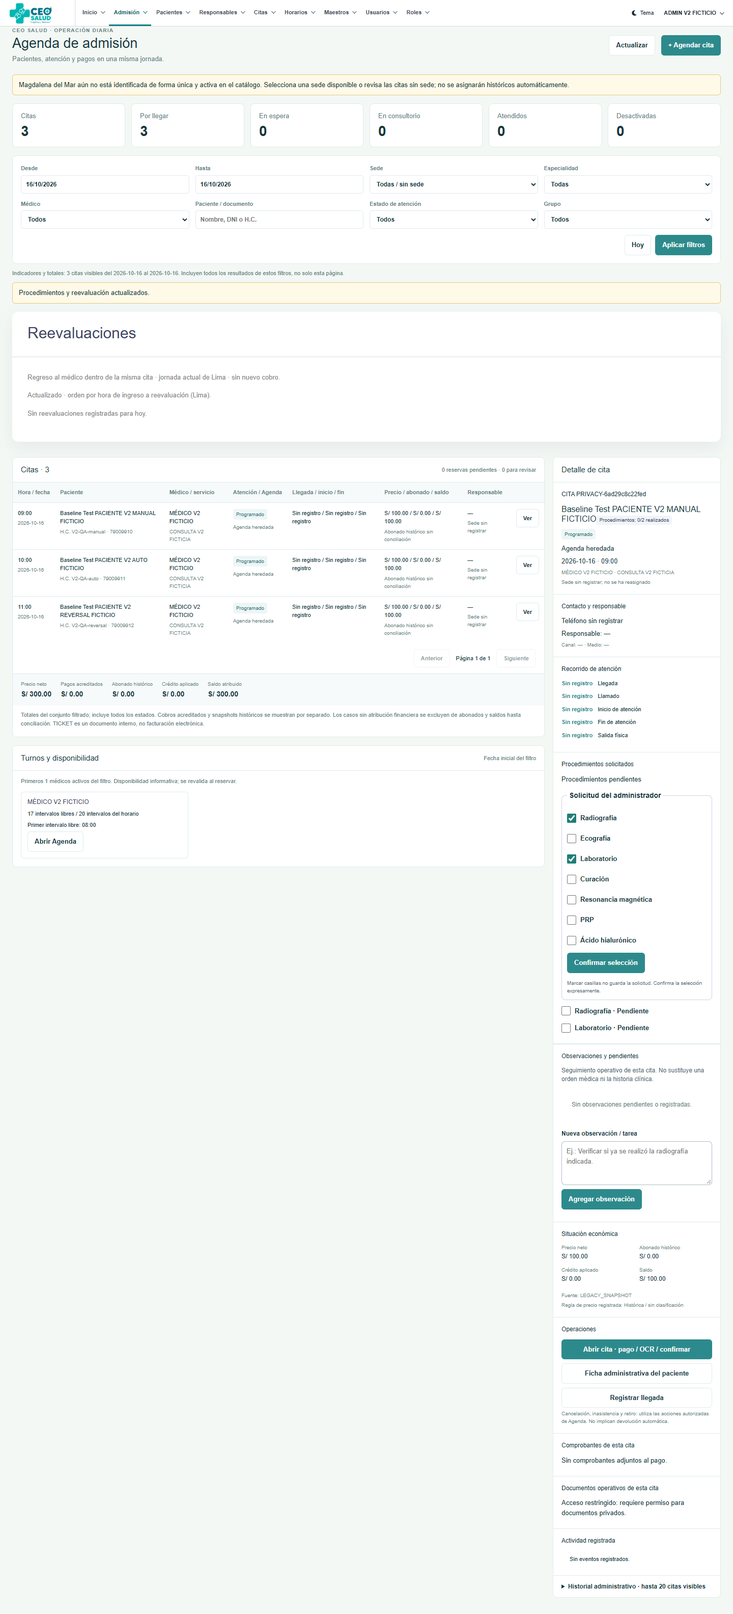
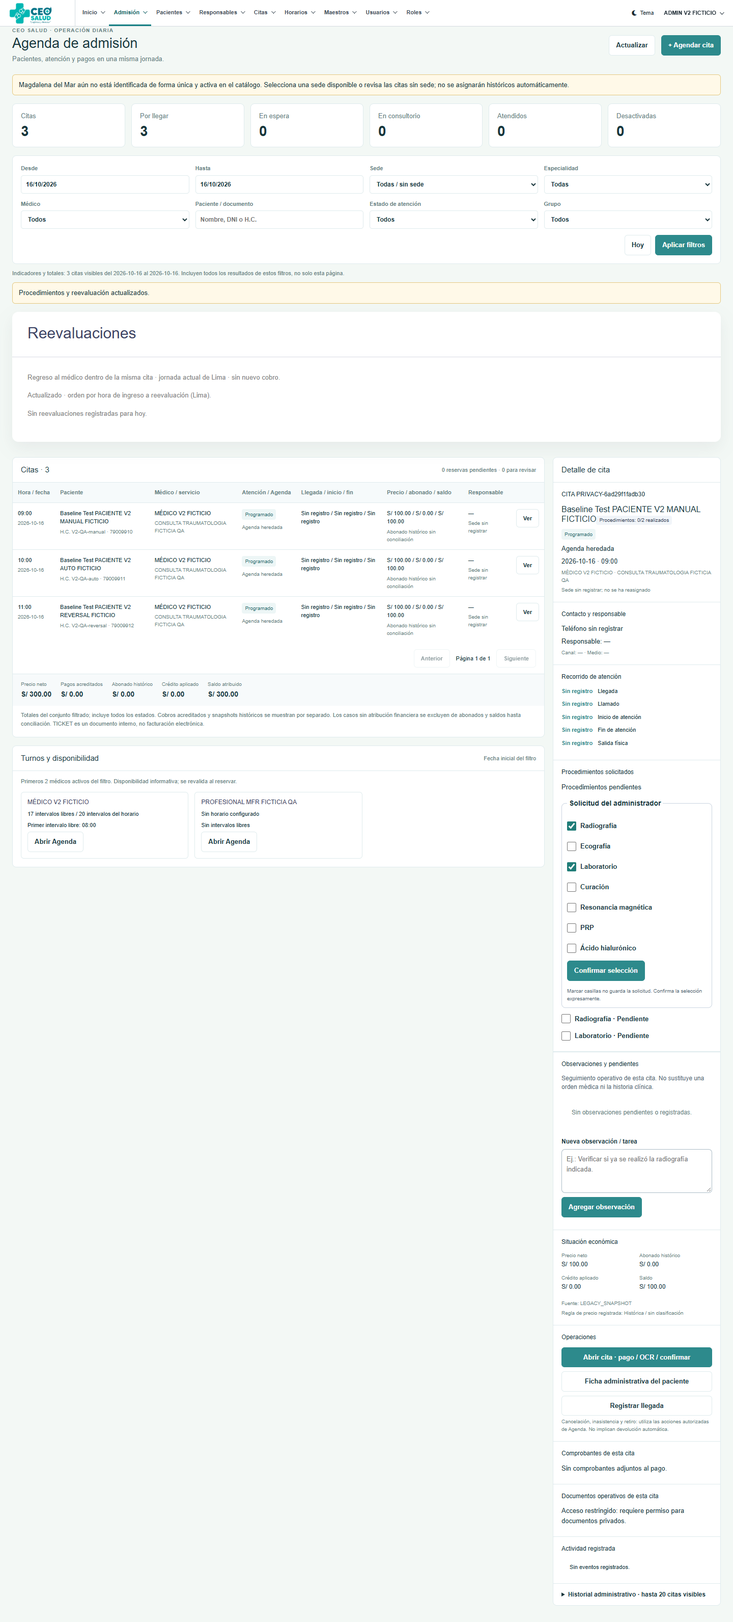
fix: refresh professional service picker after specialty compatibility changes

diff --git a/tests/JavaScript/doctor-service-compatibility.test.js b/tests/JavaScript/doctor-service-compatibility.test.js
@@ -1,0 +1,37 @@
+const test=require('node:test'),assert=require('node:assert/strict'),fs=require('node:fs'),vm=require('node:vm');
+const source=fs.readFileSync(require.resolve('../../public/js/admin/master/doctor-service/doctor-service.js'),'utf8');
+function fixture(plugin=true){
+ const target=props=>Object.assign({listeners:{},addEventListener(type,fn){this.listeners[type]=fn;},dispatchEvent(event){this.listeners[event.type]?.({target:this});}},props);
+ const select=options=>Object.defineProperty(target({options,value:options[0].value}),'selectedOptions',{get(){return this.options.filter(o=>o.value===this.value);}});
+ const option=(value,dataset={})=>({value,dataset,disabled:false});
+ const doctor=select([option('trauma',{specialty:'1'}),option('mfr',{specialty:'5'})]);
+ const service=select([option(''),option('consulta-trauma',{specialties:'[1]',policy:'PROFESSIONAL'}),option('consulta-mfr',{specialties:'[5]',policy:'PROFESSIONAL'}),option('compartido',{specialties:'[1,5]'})]);
+ const approved=target({checked:false}),reason={required:false};
+ const fields={doctor_id:doctor,service_id:service,specialty_exception_authorized:approved,specialty_exception_reason:reason};
+ const form={elements:{namedItem:name=>fields[name]},querySelector:()=>null};
+ const modal=target({}),snapshots=[];
+ const document={getElementById:id=>({formCreateDoctorService:form,doctorServiceModalCreate:modal})[id],addEventListener(){}};
+ const window={CatalogEditor:{bind(){}},addEventListener(type,fn){if(type==='DOMContentLoaded')this.ready=fn;}};
+ if(plugin){window.jQuery=element=>({selectpicker(action){assert.equal(action,'refresh');snapshots.push({selected:element.value,disabled:Object.fromEntries(element.options.map(o=>[o.value,o.disabled]))});}});window.jQuery.fn={selectpicker(){}};}
+ vm.runInNewContext(source,{window,document,Event:class{constructor(type){this.type=type;}}});window.ready();
+ const change=element=>element.dispatchEvent({type:'change'});
+ return {doctor,service,approved,reason,modal,snapshots,change};
+}
+test('Keylinn/MFR regression: initial load and professional changes refresh cached disabled options after recalculation',()=>{
+ const f=fixture();assert.equal(f.snapshots.length,1);assert.equal(f.snapshots.at(-1).disabled['consulta-mfr'],true);
+ f.doctor.value='mfr';f.change(f.doctor);
+ assert.equal(f.snapshots.at(-1).disabled['consulta-mfr'],false);assert.equal(f.snapshots.at(-1).disabled['consulta-trauma'],true);
+ f.service.value='consulta-mfr';f.change(f.service);assert.equal(f.snapshots.at(-1).selected,'consulta-mfr');
+ f.modal.dispatchEvent({type:'shown.bs.modal'});assert.equal(f.snapshots.at(-1).selected,'consulta-mfr');
+ assert.equal(f.snapshots.at(-1).disabled['consulta-trauma'],true);
+});
+test('exception changes refresh the picker, require a reason and clear only newly incompatible selections',()=>{
+ const f=fixture();f.doctor.value='mfr';f.change(f.doctor);f.approved.checked=true;f.change(f.approved);
+ assert.equal(f.reason.required,true);assert.equal(f.snapshots.at(-1).disabled['consulta-trauma'],false);
+ f.service.value='consulta-trauma';f.approved.checked=false;f.change(f.approved);
+ assert.equal(f.reason.required,false);assert.equal(f.snapshots.at(-1).disabled['consulta-trauma'],true);assert.equal(f.snapshots.at(-1).selected,'');
+ f.service.value='compartido';f.doctor.value='trauma';f.change(f.doctor);assert.equal(f.snapshots.at(-1).selected,'compartido');
+});
+test('native selects keep compatibility validation when Bootstrap Select is absent',()=>{
+ const f=fixture(false);f.doctor.value='mfr';f.change(f.doctor);assert.equal(f.service.options[2].disabled,false);assert.equal(f.service.options[1].disabled,true);
+});

diff --git a/public/js/admin/master/doctor-service/doctor-service.js b/public/js/admin/master/doctor-service/doctor-service.js
@@ -5,12 +5,18 @@ window.addEventListener('DOMContentLoaded',()=>{
   const note=form.querySelector('[data-price-source]');if(note)note.textContent=institutional?'Precio institucional: S/ '+(service.institutional_price??'sin configurar')+'. La asignación autoriza a este profesional.':'Primera consulta y reevaluación del profesional. La reevaluación exige indicación y respeta los límites clínicos.';}
  function compatibility(form){
   const approved=form.elements.namedItem('specialty_exception_authorized'),reason=form.elements.namedItem('specialty_exception_reason');if(reason)reason.required=Boolean(approved?.checked);
-  if(form===create){const doctor=form.elements.namedItem('doctor_id')?.selectedOptions[0],select=form.elements.namedItem('service_id');if(select){for(const option of select.options){if(!option.value)continue;const allowed=JSON.parse(option.dataset.specialties||'[]').map(String).includes(String(doctor?.dataset.specialty));option.disabled=!allowed&&!approved?.checked;}if(select.selectedOptions[0]?.disabled)select.value='';}}
+  if(form===create){const doctor=form.elements.namedItem('doctor_id')?.selectedOptions[0],select=form.elements.namedItem('service_id');if(select){for(const option of select.options){if(!option.value)continue;const allowed=JSON.parse(option.dataset.specialties||'[]').map(String).includes(String(doctor?.dataset.specialty));option.disabled=!allowed&&!approved?.checked;}if(select.selectedOptions[0]?.disabled)select.value='';
+   // Bootstrap Select caches disabled options; synchronize only after compatibility and selection are final.
+   if(window.jQuery?.fn?.selectpicker)window.jQuery(select).selectpicker('refresh');}}
   const note=form.querySelector('[data-specialty-message]');if(note){const allowed=form===create?Boolean(form.elements.namedItem('service_id')?.value):form.dataset.specialtyCompatible==='1';note.hidden=allowed;if(!allowed&&form===update)form.querySelector('[data-specialty-authorization]').open=true;note.textContent='Revisa la compatibilidad de especialidad. Un servicio incompatible requiere autorización explícita y motivo; se valida también en servidor.';}
  }
  [create,update].filter(Boolean).forEach(form=>form.elements.namedItem('specialty_exception_authorized')?.addEventListener('change',()=>compatibility(form)));create?.elements.namedItem('doctor_id')?.addEventListener('change',()=>compatibility(create));
  create?.elements.namedItem('service_id')?.addEventListener('change',e=>{compatibility(create);const option=e.target.selectedOptions[0];policy(create,{pricing_policy:option.dataset.policy,institutional_price:option.dataset.price});});
+ for(const [modalId,form] of [['doctorServiceModalCreate',create],['doctorServiceModalEdit',update]]){
+  if(form)document.getElementById(modalId)?.addEventListener('shown.bs.modal',()=>compatibility(form));
+ }
  if(create)create.elements.namedItem('service_id')?.dispatchEvent(new Event('change'));
+ if(update)compatibility(update);
  document.addEventListener('click',async e=>{const edit=e.target.closest('.edit-doctor-service'),remove=e.target.closest('.delete-doctor-service');
   if(edit){e.preventDefault();try{const data=await editor.request('/master/admin/doctor/services/'+encodeURIComponent(edit.dataset.id));const p=data.assignment;
    editor.fill(update,{doctor_service_id:p.id,doctor_id:p.doctor_id,service_id:p.service_id,precio_estandar:p.precio_primera_consulta,reconsulta:p.precio_reconsulta,dias:p.dias_reconsulta,catalog_version:p.catalog_version,estado:p.estado,specialty_exception_authorized:Boolean(p.specialty_exception_approved_by_user_id),specialty_exception_reason:p.specialty_exception_reason});

diff --git a/tests/JavaScript/agenda-guidance.test.js b/tests/JavaScript/agenda-guidance.test.js
@@ -20,8 +20,8 @@ test('comprobante permanece dentro de Registrar adelanto según PR24 y no se dup
 test('el par reserva/agendar explica el siguiente paso sin decir que la reserva ocupa el horario', () => {
     const help = guidance.copy.reserveVsSchedule;
     assert.match(help, /Guardar reserva: guarda el seguimiento sin confirmar el horario/);
-    assert.match(help, /Confirmar cita: confirma el horario con cualquier pago real positivo o exoneración autorizada/);
-    assert.match(help, /Con adelanto o crédito, la reserva protege el horario sin confirmarlo/);
+    assert.match(help, /Registrar pago y cita: registra cualquier pago real positivo y confirma automáticamente el horario/);
+    assert.match(help, /La exoneración requiere autorización expresa/);
     assert.match(guidance.copy.legendPrivate,/Pendiente de confirmación.*protege el horario/);
     for (const file of [
         'resources/views/scheduling/agenda/partials/quick-registration.blade.php',

diff --git a/public/js/scheduling/agenda-guidance.js b/public/js/scheduling/agenda-guidance.js
@@ -6,7 +6,7 @@
     'use strict';
 
     const copy = {
-        reserveVsSchedule: 'Guardar reserva: guarda el seguimiento sin confirmar el horario. Confirmar cita: confirma el horario con cualquier pago real positivo o exoneración autorizada. Con adelanto o crédito, la reserva protege el horario sin confirmarlo.',
+        reserveVsSchedule: 'Guardar reserva: guarda el seguimiento sin confirmar el horario y sin registrar dinero. Registrar pago y cita: registra cualquier pago real positivo y confirma automáticamente el horario. La exoneración requiere autorización expresa.',
         insufficientAdvance: 'Para confirmar registra un pago real mayor a S/0. Si aún no pagó, usa Guardar reserva.',
         reserveSaved: 'Reserva guardada. Pendiente de confirmación.',
         reserveSavedHere: 'Reserva guardada para esta hora.',

diff --git a/tests/Support/agenda-v2-browser-seed.php b/tests/Support/agenda-v2-browser-seed.php
@@ -33,8 +33,14 @@ $fixture=new class {
         $p=$this->createPatient($admin,['nombre'=>'PACIENTE V2 PAGO FICTICIO','numero_identidad'=>'79009920','historia_clinica'=>'V2-QA-PAGO','telefono'=>'+51999000001']);
         $pending=$this->lifecycleAppointment(\App\Models\User::findOrFail($users['admission']['id']),$catalog,[
             'fecha_cita'=>$today,'hora_cita'=>'12:00','estado_agenda'=>'PENDIENTE_CONFIRMACION','tipo_agendamiento'=>'REGULAR','economic_source'=>'VOUCHER'], $p);
+        $catalog['specialty']->update(['nombre'=>'TRAUMATOLOGIA FICTICIA QA']);
+        $catalog['service']->update(['nombre'=>'CONSULTA TRAUMATOLOGIA FICTICIA QA']);
+        $mfrSpecialty=\App\Models\Specialty::create(['nombre'=>'MEDICINA FISICA Y REHABILITACION FICTICIA QA','estado'=>'ACTIVO']);
+        $mfrDoctor=\App\Models\Doctor::create(['nombre'=>'PROFESIONAL MFR FICTICIA QA','specialty_id'=>$mfrSpecialty->id,'estado'=>'ACTIVO']);
+        $mfrService=\App\Models\Service::create(['nombre'=>'CONSULTA MEDICA MFR FICTICIA QA','specialty_id'=>$mfrSpecialty->id,
+            'service_type'=>'CONSULTATION','pricing_policy'=>'PROFESSIONAL','estado'=>'ACTIVO']);
         return ['users'=>$users,'date'=>$today,'appointments'=>$appointments,'pending_id'=>$pending->id,
-            'doctor_id'=>$catalog['doctor']->id,'service_id'=>$catalog['service']->id,'patient_id'=>$p->id,'document'=>'79009920'];
+            'mfr_doctor_id'=>$mfrDoctor->id,'mfr_service_id'=>$mfrService->id,'doctor_id'=>$catalog['doctor']->id,'service_id'=>$catalog['service']->id,'patient_id'=>$p->id,'document'=>'79009920'];
     }
 };
 $data=$fixture->seed($password);

diff --git a/resources/views/admissionist/appointment/crud/create.blade.php b/resources/views/admissionist/appointment/crud/create.blade.php
@@ -16,8 +16,8 @@
 
                 @csrf
                 <input type="hidden" name="request_key" value="{{ (string) \Illuminate\Support\Str::uuid() }}">
-                <label class="form-label">Acción <select name="mode" class="form-control"><option value="RESERVE">Guardar reserva (con dinero protege horario)</option><option value="CONFIRM">Confirmar cita (requiere 50% real o exoneración autorizada)</option></select></label>
-                <p>El precio se calcula en el servidor. Registrar adelanto no confirma automáticamente.</p>
+                <label class="form-label">Acción <select name="mode" class="form-control"><option value="RESERVE">Guardar reserva sin pago</option><option value="CONFIRM">Registrar pago y cita / exoneración autorizada</option></select></label>
+                <p>El precio se calcula en el servidor. Cualquier pago real positivo confirma automáticamente la cita. La exoneración requiere autorización expresa.</p>
 
                 <div class="modal-body">
 

diff --git a/app/Http/Controllers/admissionist/appointment/AppointmentController.php b/app/Http/Controllers/admissionist/appointment/AppointmentController.php
@@ -67,7 +67,7 @@ class AppointmentController extends Controller
         try {
             $a = $registrations->register($request);
             return response()->json(['code' => 1, 'msg' => $a->estado_agenda === 'PENDIENTE_CONFIRMACION'
-                ? 'Reserva guardada. Pendiente de confirmación; registrar adelanto no confirma la cita.' : 'Cita confirmada.',
+                ? 'Reserva sin pago guardada. Pendiente de confirmación.' : 'Cita confirmada.',
                 'appointment_id' => $a->id, 'estado_agenda' => $a->estado_agenda,
                 'economy' => app(\App\Services\Billing\AppointmentEconomicPosition::class)->publicPosition($a)]);
         } catch (\Illuminate\Validation\ValidationException $e) {

diff --git a/docs/agenda-v2/QA_Y_EVIDENCIAS.md b/docs/agenda-v2/QA_Y_EVIDENCIAS.md
@@ -8,9 +8,11 @@ Se extrajo una copia intacta de 9c3b93a y se ejecutó antes de adaptar los tests
 
 ## Resultados de verificación
 
-La suite SQLite completa de v2 registra **1.039 pruebas / 8.513 aserciones**, sin fallos ni omisiones. JavaScript ampliado: **306/306**, sin fallos ni omisiones. La suite MariaDB completa registra **1.044 pruebas / 8.561 aserciones**, sin errores, fallos ni omisiones; incluye cinco carreras de procesos HTTP reales, Unit y Feature. Chrome registra **9/9 escenarios y cero errores JavaScript**. El SHA exacto probado se registra junto al resumen de ejecución y en el PR. No se presenta una compilación como prueba funcional.
+La suite SQLite completa de v2 registra **1.039 pruebas / 8.513 aserciones**, sin fallos ni omisiones. JavaScript ampliado: **309/309**, sin fallos ni omisiones. La suite MariaDB completa registra **1.044 pruebas / 8.561 aserciones**, sin errores, fallos ni omisiones; incluye cinco carreras de procesos HTTP reales, Unit y Feature. Chrome registra **10/10 escenarios y cero errores JavaScript**. El SHA exacto probado se registra junto al resumen de ejecución y en el PR. No se presenta una compilación como prueba funcional.
 
 Los 26 escenarios PHP nuevos cubren pagos, permisos negativos, cambios simultáneos/versiones, idempotencia, cola, colores críticos, Lima al cruzar medianoche UTC, migración sobre datos ficticios heredados y reversión. Las cinco carreras MariaDB comprueban: misma UUID con un pago/ticket/cita; dos cobros por el mismo intervalo con un único ganador; actualizaciones de procedimientos con una versión perdedora; reintento simultáneo de realización con una única auditoría; dos reversiones con una única corrección.
+
+Tres pruebas nuevas de `doctor-service-compatibility.test.js` verifican el refresco de Bootstrap Select después del cálculo, la conservación de selecciones válidas, apertura del modal, cambios de excepción y funcionamiento sin plugin. El escenario Chrome del maestro utiliza el desplegable visual real para MFR y Traumatología; comprueba además HTTP 422 sin autorización. No modifica registros reales de la profesional reportada.
 
 Chrome usa tres sesiones de usuario (ADMINISTRADOR, ADMISION y COMERCIAL), escritorio 1440×1000 y móvil 390×844. El runner comprueba selección no guardada hasta confirmar, realizados, decisión manual, HTTP 403, actualización compartida sin recarga, cola ordenada, conservación de texto y casillas después de perder foco, reversión con motivo, confirmación automática desde panel de pago, ausencia del botón adicional tras pagar, CSRF 419 y exclusión de Clarity. Guarda capturas y errores JavaScript; cualquier error de página hace fallar la ejecución.
 
@@ -31,7 +33,7 @@ Los tests de privacidad/conciliación de reservas pagadas pendientes usan ahora 
 | CA-17 a CA-25 | Procedimientos + CompatibilityTest; dos feeds, cola cronológica, decisiones manuales, ausencia de dinero/citas nuevas |
 | CA-26 | ReevaluationIndicationTest y CommercialReevaluationTest, conservando días 0, 1, 15 y 16 |
 | CA-27 a CA-30 | AgendaV2ReversalTest; carrera de reversiones; historial y snapshots; Chrome |
-| CA-31 y CA-32 | Suite completa de catálogo PR #45, especialidad/asignación y precios por profesional |
+| CA-31 y CA-32 | Suite completa de catálogo PR #45, especialidad/asignación y precios por profesional; doctor-service-compatibility.test.js y Chrome con Bootstrap Select real MFR/Traumatología |
 | CA-33 | Suites completas PHP/JS de Caja, vouchers, reservas, OCR, documentos y autorizaciones |
 | CA-34 | Capturas e inspección en Chrome escritorio/móvil y comprobación de ancho |
 
@@ -47,6 +49,6 @@ php vendor/phpunit/phpunit/phpunit -c phpunit.agenda-v2-mariadb.xml --colors=nev
 
 La tercera orden solo funciona con el runtime exacto verificado; no reutiliza otra BD ni usa credenciales del desarrollador. Crear el datadir exclusivo con MariaDB 11.8.9, puerto 33324 y bind local; ejecutar tests/Support/agenda-v2-init.php únicamente con AGENDA_V2_QA_INIT=NEW_SYNTHETIC_RUNTIME. La inicialización rechaza esquemas preexistentes. Para navegador, usar tools/qa/run-agenda-v2-browser.ps1 -ResetSyntheticData; solo reinicia el esquema ficticio de navegador y detiene el servidor que crea.
 
-Los logs/JUnit, contraseñas efímeras y capturas se conservan localmente en docs/agenda-v2/evidence y storage/app/qa-v2; no se suben credenciales ni fixtures de ejecución. El resumen sanitizado y el manifiesto SHA-256 identifican resultados y fuentes. El SHA del commit probado se registra aparte para no crear una referencia circular en el propio commit.
+Los logs/JUnit, contraseñas efímeras y capturas se conservan localmente en docs/agenda-v2/evidence y storage/app/qa-v2; no se suben credenciales ni fixtures de ejecución. El resumen sanitizado y el manifiesto SHA-256 identifican resultados y fuentes; los hashes de texto normalizan CRLF a LF como el almacenamiento de Git. El SHA del commit probado se registra aparte para no crear una referencia circular en el propio commit.
 
 Pendientes de liberación: aceptación del personal sobre los fixtures, backup productivo real, ensayo de despliegue autorizado, eventual concesión individual de supervisión y comprobación del entorno instalado. CI se informa con sus estados reales en el PR; una ejecución pendiente no se declara aprobada.

diff --git a/docs/agenda-v2/ARCHIVOS_MODIFICADOS.md b/docs/agenda-v2/ARCHIVOS_MODIFICADOS.md
@@ -13,6 +13,7 @@ Reutilizadas en operaciones nuevas: appointments, appointment_operations, appoin
 - `app/Http/Controllers/Scheduling/AdmissionBoardController.php`
 - `app/Http/Controllers/Scheduling/AgendaFeedController.php`
 - `app/Http/Controllers/Scheduling/OperationalProcedureController.php`
+- `app/Http/Controllers/admissionist/appointment/AppointmentController.php`
 - `app/Models/Appointment.php`
 - `app/Models/AppointmentOperationalReview.php`
 - `app/Services/Scheduling/AdmissionBoardService.php`
@@ -31,16 +32,18 @@ Reutilizadas en operaciones nuevas: appointments, appointment_operations, appoin
 - `database/migrations/2026_10_16_020000_create_appointment_operational_procedures.php`
 - `routes/scheduling.php`
 
-## Interfaces
+## Interfaz y componentes
 
 - `public/css/scheduling/admission-board.css`
-
+- `public/js/admin/master/doctor-service/doctor-service.js`
 - `public/js/admissionist/appointment/appointment.js`
 - `public/js/scheduling/admission-board.js`
+- `public/js/scheduling/agenda-guidance.js`
 - `public/js/scheduling/agenda-operational-workspace.js`
 - `public/js/scheduling/agenda-refresh.js`
 - `public/js/scheduling/agenda.js`
 - `public/js/scheduling/operational-reevaluations.js`
+- `resources/views/admissionist/appointment/crud/create.blade.php`
 - `resources/views/admissionist/appointment/index.blade.php`
 - `resources/views/components/utils/operational-reevaluations.blade.php`
 - `resources/views/components/utils/reevaluations.blade.php`
@@ -55,8 +58,6 @@ Reutilizadas en operaciones nuevas: appointments, appointment_operations, appoin
 - `resources/views/templates/nav/mvp.blade.php`
 
 ## Pruebas y arneses
-
-- `tools/qa/run-agenda-v2-browser.ps1`
 
 - `phpunit.agenda-v2-mariadb.xml`
 - `tests/CreatesApplication.php`
@@ -82,7 +83,9 @@ Reutilizadas en operaciones nuevas: appointments, appointment_operations, appoin
 - `tests/Feature/Scheduling/ReevaluationIndicationTest.php`
 - `tests/Feature/Scheduling/RegularReservationExclusivityTest.php`
 - `tests/Integration/AgendaV2/AgendaV2ConcurrencyTest.php`
+- `tests/JavaScript/agenda-guidance.test.js`
 - `tests/JavaScript/agenda-v2-refresh.test.js`
+- `tests/JavaScript/doctor-service-compatibility.test.js`
 - `tests/Support/AgendaV2TestCase.php`
 - `tests/Support/IsolatedAgendaV2Qa.php`
 - `tests/Support/agenda-v2-browser-router.php`
@@ -91,6 +94,7 @@ Reutilizadas en operaciones nuevas: appointments, appointment_operations, appoin
 - `tests/Support/agenda-v2-request.php`
 - `tests/TestCase.php`
 - `tools/qa/browser-agenda-v2.cjs`
+- `tools/qa/browser-catalog.cjs`
 - `tools/qa/run-agenda-v2-browser.ps1`
 
 ## CI
@@ -99,8 +103,10 @@ Reutilizadas en operaciones nuevas: appointments, appointment_operations, appoin
 
 ## Documentación y evidencias
 
-Los siete documentos en docs/agenda-v2 explican diagnóstico, flujos, permisos, migración, QA, archivos y despliegue/rollback. evidence/RESUMEN.json y FUENTES_SHA256.json registran resultados sanitizados y hashes de fuentes. Las capturas PNG contienen exclusivamente fixtures ficticios de QA. Logs/JUnit y secretos locales quedan ignorados.
+Los siete documentos en docs/agenda-v2 explican diagnóstico, flujos, permisos, migración, QA, archivos y despliegue/rollback. evidence/RESUMEN.json y FUENTES_SHA256.json registran resultados sanitizados y hashes de fuentes. Las capturas PNG contienen exclusivamente fixtures ficticios de QA, incluido Maestro Profesional / Servicio con MFR seleccionable y Traumatología bloqueada. Logs/JUnit y secretos locales quedan ignorados.
 
 ## Motivo de los ajustes en pruebas heredadas
 
-Las pruebas de creación por el adaptador heredado se ejecutan con autorización ADMINISTRADOR. ADMISION/COMERCIAL tienen nuevos asserts 403 y continúan pruebas económicas por Agenda operativa. Las expectativas de pago positivo ahora exigen CONFIRMADA; los casos de privacidad de reservas pagadas anteriores conservan sus aserciones mediante fixtures históricos explícitos. No se eliminan pruebas de importes, duplicados, Caja, indicaciones, documentos o estados finales. El arnés MariaDB incorpora su detector DDL ya existente y fakes de URLs locales, sin modificar producción.
+Las pruebas de creación por el adaptador heredado se ejecutan con autorización ADMINISTRADOR. ADMISION/COMERCIAL tienen nuevos asserts 403 y continúan pruebas económicas por Agenda operativa. Las expectativas de pago positivo ahora exigen CONFIRMADA; los casos de privacidad de reservas pagadas anteriores conservan sus aserciones mediante fixtures históricos explícitos. No se eliminan pruebas de importes, duplicados, Caja, indicaciones, documentos o estados finales. El arnés MariaDB incorpora su detector DDL ya existente y fakes de URLs locales, sin modificar producción. Los textos y el arnés de navegador del catálogo se alinearon con la nueva confirmación automática.
+
+La corrección adicional modifica doctor-service.js y añade doctor-service-compatibility.test.js, junto con el escenario Chrome y fixtures del arnés v2. Conserva la validación de especialidad y refresca únicamente la proyección visual después del cálculo de compatibilidad.

diff --git a/docs/agenda-v2/ANALISIS_FUNCIONAL.md b/docs/agenda-v2/ANALISIS_FUNCIONAL.md
@@ -36,3 +36,11 @@ Las nuevas citas de reevaluación clínica mantienen indicación escrita, origen
 Una decisión manual con realizados y pendientes se conserva al editar solicitudes. Si se desmarca el último realizado, queda **SUSPENDED**, visible y auditada; con una nueva realización recupera READY y una nueva hora efectiva. **WITHDRAWN** solo vuelve por un envío explícito autorizado, aunque se completen más procedimientos. Las lecturas y el polling no cambian estas decisiones. No se añadió «Reevaluación completada» porque introducir un segundo cierre de atención no es parte de la autorización actual.
 
 Deuda detectada: tareas libres y procedimientos son conceptos diferentes y mantienen permisos distintos; scripts heredados asumían la presencia del formulario de creación y se corrigió su inicializador; las pruebas con DDL necesitan aislamiento adicional en MariaDB por los commits implícitos; Clarity continúa fuera de las rutas excluidas, por lo que una política global de analítica requiere un proyecto separado.
+
+## Corrección adicional del maestro Profesional / Servicio
+
+Se incorporó el diagnóstico reportado en `/master/admin/doctor/services`: `compatibility(form)` ya recalculaba la compatibilidad nativa, pero Bootstrap Select conservaba opciones visualmente deshabilitadas. Tras actualizar todos los `disabled` y retirar solo una selección que haya dejado de ser válida, se ejecuta `selectpicker('refresh')` si el plugin está disponible. El mismo cálculo se ejecuta al cambiar profesional, cambiar autorización excepcional, elegir servicio, abrir el modal y cargar inicialmente la pantalla. No se cambió ninguna autorización del servidor.
+
+El caso reportado de Keylinn / Consulta MFR se reprodujo con una profesional y catálogo íntegramente ficticios de Medicina Física y Rehabilitación. Chrome comprueba la opción visual seleccionable, la conservación de una selección válida al reabrir y Traumatología bloqueada sin excepción; un POST incompatible también devuelve 422. Tres pruebas JavaScript cubren sincronización inicial/cambios/modal, excepciones/selecciones compartidas y ausencia del plugin.
+
+Se alinearon textos heredados y el arnés de catálogo con la confirmación automática por pago nuevo positivo. Las reservas históricas pagadas pendientes continúan cubiertas mediante fixtures explícitos.

diff --git a/docs/agenda-v2/PLAN_DESPLIEGUE_Y_ROLLBACK.md b/docs/agenda-v2/PLAN_DESPLIEGUE_Y_ROLLBACK.md
@@ -19,7 +19,7 @@ Esta entrega es un PR Draft para revisión. No autoriza ni ejecuta publicación 
 - Verificar claves/índices y ausencia de modificaciones a filas históricas; no ejecutar migrate:fresh, seeders de QA ni scripts bajo tests/Support en producción.
 - Publicar el SHA aprobado con PHP/dependencias compatibles y archivos JS/Blade juntos. Mantener URLs versionadas por contenido y limpiar/reconstruir cachés conforme al procedimiento existente.
 - Validar sesiones de ADMINISTRADOR, ADMISION y COMERCIAL: reserva sin pago; nuevo adelanto con confirmación única; selección confirmada; realizado parcial/manual; todos realizados naranja en ambas agendas; cola ordenada; reversión no final; HTTP directo prohibido.
-- Confirmar que Caja, OCR/documentos privados, exoneraciones, adicionales, fuera de horario, precios y acreditaciones clínicas mantienen sus reglas. Verificar que Clarity no se carga en páginas excluidas.
+- Probar Maestro Profesional / Servicio con un profesional MFR ficticio: cambiar desde Traumatología, seleccionar Consulta MFR, reabrir conservando el servicio, activar/retirar la excepción y comprobar el bloqueo de Traumatología. Confirmar que Caja, OCR/documentos privados, exoneraciones, adicionales, fuera de horario, precios y acreditaciones clínicas mantienen sus reglas. Verificar que Clarity no se carga en páginas excluidas.
 - Reanudar escrituras solo tras aprobación funcional. Monitorear 403/409/422 y errores sin incluir datos clínicos/financieros en analítica.
 
 ## Reversión sin pérdida

diff --git a/docs/agenda-v2/ARQUITECTURA_Y_FLUJOS.md b/docs/agenda-v2/ARQUITECTURA_Y_FLUJOS.md
@@ -56,3 +56,7 @@ Agenda operativa usa agenda-refresh.js, con temporizador al finalizar, exclusió
 ## Prioridad visual
 
 DESACTIVADA → REEMBOLSO_SOLICITADO → SALIDA_REGISTRADA → LISTO_REEVALUACION (si no existe incertidumbre financiera) → PRESENTE → PAGO_REAL → reserva/sin pago. La incertidumbre conserva la advertencia CONCILIAR_PAGO y evita el fondo naranja. Cuando un reembolso tiene prioridad, la disponibilidad para reevaluación permanece como chip textual. NO_ASISTIO y las citas fuera de jornada no esperan activamente. Ninguna regla visual escribe estados.
+
+## Sincronización del selector Profesional / Servicio
+
+`public/js/admin/master/doctor-service/doctor-service.js` recalcula las opciones desde `data-specialties`, aplica la excepción explícita y limpia únicamente valores incompatibles. A continuación refresca la caché visual de Bootstrap Select, sin volver a asignar el valor seleccionado. Carga inicial, cambio de profesional, cambio de excepción y `shown.bs.modal` comparten el mismo cálculo. La validación autoritativa continúa en CatalogManagement, independiente del estado del desplegable.
